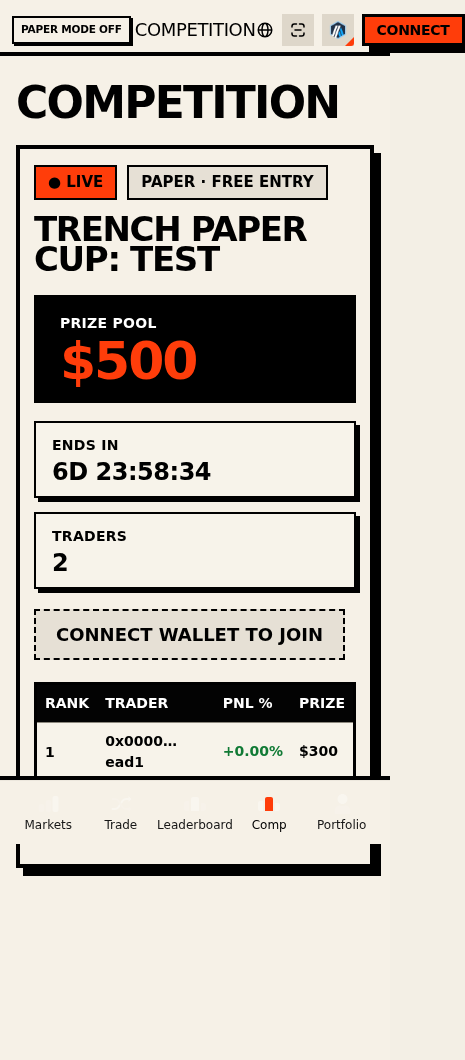
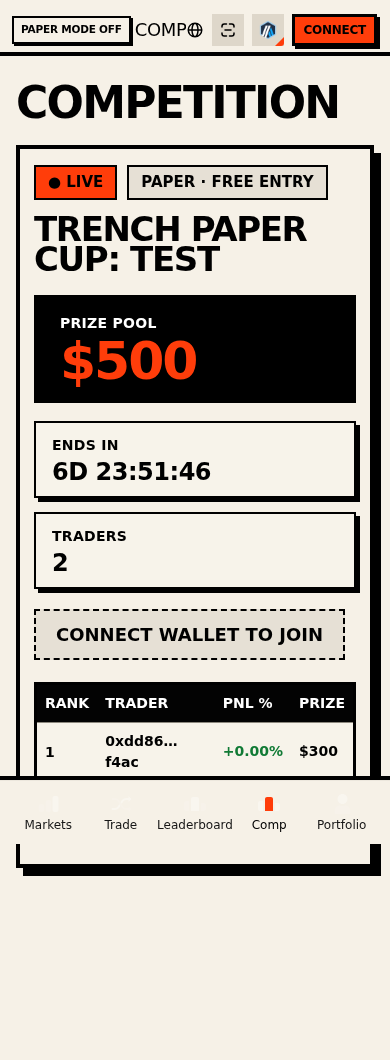
nav: make active nav item visible (orange fill, black text) instead of transparent gradient-clip text

diff --git a/src/styles/brutalist.css b/src/styles/brutalist.css
@@ -60,6 +60,20 @@ nav a, nav button {
   font-weight: 800;
 }
 
+/* active nav item: the SDK renders it as transparent gradient-clip text,
+   which our gradient flattening makes invisible. Per theme spec: orange
+   fill, black text, square. */
+header [data-actived="true"] {
+  background: var(--tt-orange) !important;
+}
+header [data-actived="true"] span {
+  color: #000 !important;
+  -webkit-text-fill-color: #000 !important;
+  background: none !important;
+  -webkit-background-clip: initial !important;
+  background-clip: initial !important;
+}
+
 /* main content area */
 .oui-scaffold-root, main {
   background: var(--tt-cream) !important;
@@ -605,4 +619,41 @@ button[id*="buy" i][role="tab"], button[id*="sell" i][role="tab"] {
 /* black interval/price pills on chart stay square and bordered */
 [class*="oui-tooltip"], [class*="price-label"] {
   border-radius: 0 !important;
+}
+
+/* teal gradient connect-wallet banner (mobile portfolio/trade): flatten to
+   a black brutalist strip with orange square marker */
+[class*="oui-bg-[linear-gradient"] {
+  background: var(--tt-black) !important;
+  background-image: none !important;
+  border: 2px solid #000;
+}
+[class*="oui-bg-[linear-gradient"] * {
+  color: #fff !important;
+  text-transform: uppercase;
+  font-weight: 800;
+}
+
+/* mobile bottom nav (footer.oui-scaffold-bottomNav): heavy top border,
+   black icons/labels, uppercase */
+footer.oui-scaffold-bottomNav {
+  border-top: 4px solid #000 !important;
+  background: var(--tt-panel) !important;
+}
+footer.oui-scaffold-bottomNav span,
+footer.oui-scaffold-bottomNav div {
+  text-transform: uppercase;
+  font-weight: 800;
+}
+footer.oui-scaffold-bottomNav svg path {
+  fill-opacity: 1 !important;
+}
+footer.oui-scaffold-bottomNav * { color: #000 !important; }
+
+/* bottom nav glyphs are painted white by the SDK: repaint black,
+   keep the active-orange accents (fill uses currentColor sometimes) */
+footer.oui-scaffold-bottomNav svg path[fill="#fff"],
+footer.oui-scaffold-bottomNav svg path[fill="white"],
+footer.oui-scaffold-bottomNav svg path[fill="#FFF"] {
+  fill: #000 !important;
 }
